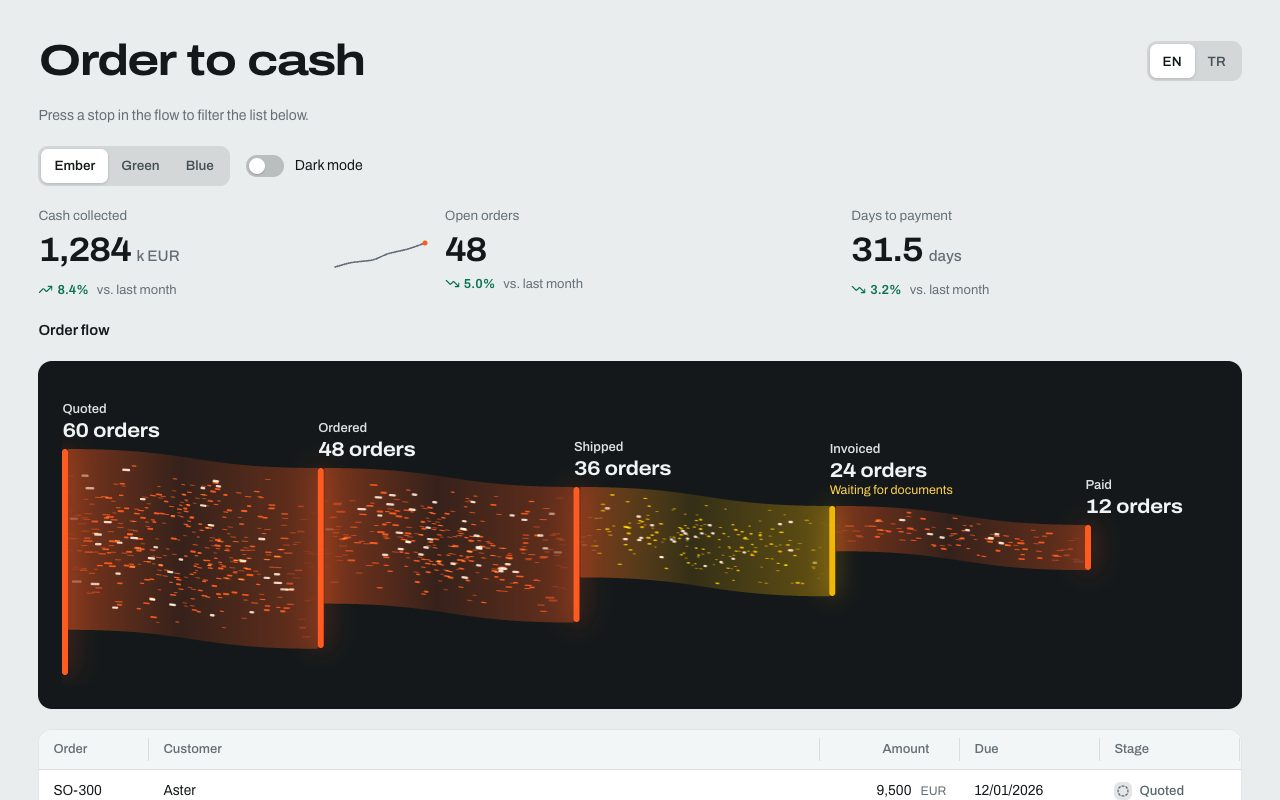
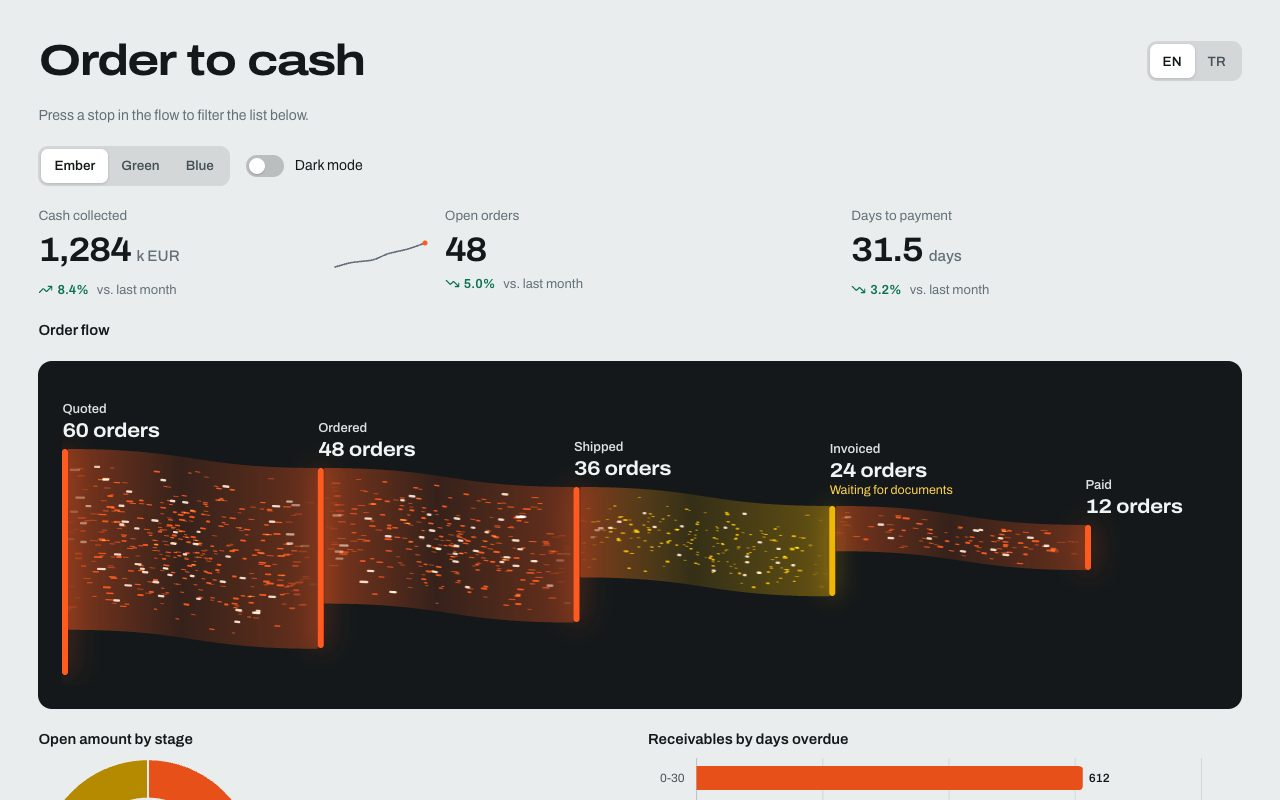
Örnekler kor-ui5 0.2.0'a geçti, panoya pasta ve çubuk grafiği eklendi

diff --git a/apps/cash-dashboard/webapp/controller/Dashboard.controller.js b/apps/cash-dashboard/webapp/controller/Dashboard.controller.js
@@ -20,6 +20,13 @@ sap.ui.define([
     onInit() {
       this.getView().setModel(new JSONModel({ language }), "ui");
       document.title = this.text("appTitle");
+      // Pie chart slices: open amount per stage, from the same orders as the list
+      const model = this.getOwnerComponent().getModel();
+      const fill = () => {
+        const stages = ["quoted", "ordered", "shipped", "invoiced"];
+        model.setProperty("/byStage", stages.map((key) => ({ key, name: this.text(key), amount: model.getProperty("/orders").filter((o) => o.stage === key).reduce((sum, o) => sum + o.amount, 0) })));
+      };
+      if (model.getProperty("/orders")) fill(); else model.dataLoaded().then(fill);
     },
     stageText(stage) { return stage ? this.text(stage) : ""; },
     onStop(event) {

diff --git a/apps/no-build/index.html b/apps/no-build/index.html
@@ -19,7 +19,7 @@
     data-sap-ui-theme="sap_horizon"
     data-sap-ui-compatVersion="edge"
     data-sap-ui-libs="sap.ui.core"
-    data-sap-ui-resourceroots='{"kor.ui": "https://cdn.jsdelivr.net/npm/kor-ui5@0.1.0/src/"}'></script>
+    data-sap-ui-resourceroots='{"kor.ui": "https://cdn.jsdelivr.net/npm/kor-ui5@0.2.0/src/"}'></script>
 </head>
 <body class="kor">
   <main id="content"></main>

diff --git a/apps/cash-dashboard/webapp/app.css b/apps/cash-dashboard/webapp/app.css
@@ -5,3 +5,5 @@ body { background: var(--kor-canvas); }
 .stats { display: grid !important; grid-template-columns: repeat(auto-fit, minmax(14rem, 1fr)); }
 .wrap { flex-wrap: wrap; }
 .night { padding: 1.5rem; border-radius: 14px; background: #14181A; }
+
+.korStack.charts { display: grid; grid-template-columns: repeat(auto-fit, minmax(min(100%, 340px), 1fr)); }

diff --git a/README.tr.md b/README.tr.md
@@ -10,7 +10,7 @@ Yayımlanmış [kor-ui5](https://github.com/lutfullahkabalak/kor-ui5) paketiyle 
 | [odata-products](apps/odata-products) | OData V2: süzme, yerinde düzenleme, toplu kayıt, oluşturma, değer yardımı, kayıtlı görünüm |
 | [approvals](apps/approvals) | Talep listesi, geçmiş, basılı tutarak onay, gerekçeli ret |
 | [production-plan](apps/production-plan) | Aynı veri üzerinde Schedule ve Board |
-| [cash-dashboard](apps/cash-dashboard) | Stat, Trend, listeyi süzen Flow, çalışırken tema |
+| [cash-dashboard](apps/cash-dashboard) | Stat, PieChart, BarChart, Trend, listeyi süzen Flow, çalışırken tema |
 | [no-build](apps/no-build) | Her şeyi CDN'den alan tek HTML dosyası |
 
 Her klasör tek başına çalışır:

diff --git a/README.md b/README.md
@@ -10,7 +10,7 @@ Small, complete OpenUI5 applications built with the published [kor-ui5](https://
 | [odata-products](apps/odata-products) | OData V2: filter, inline edit, batch save, create, value help, saved views |
 | [approvals](apps/approvals) | Request list, history, hold to approve, reject with a reason |
 | [production-plan](apps/production-plan) | Schedule and Board over the same data |
-| [cash-dashboard](apps/cash-dashboard) | Stat, Trend, Flow filtering a list, runtime theming |
+| [cash-dashboard](apps/cash-dashboard) | Stat, PieChart, BarChart, Trend, Flow filtering a list, runtime theming |
 | [no-build](apps/no-build) | One HTML file, everything from a CDN |
 
 ## Take one
